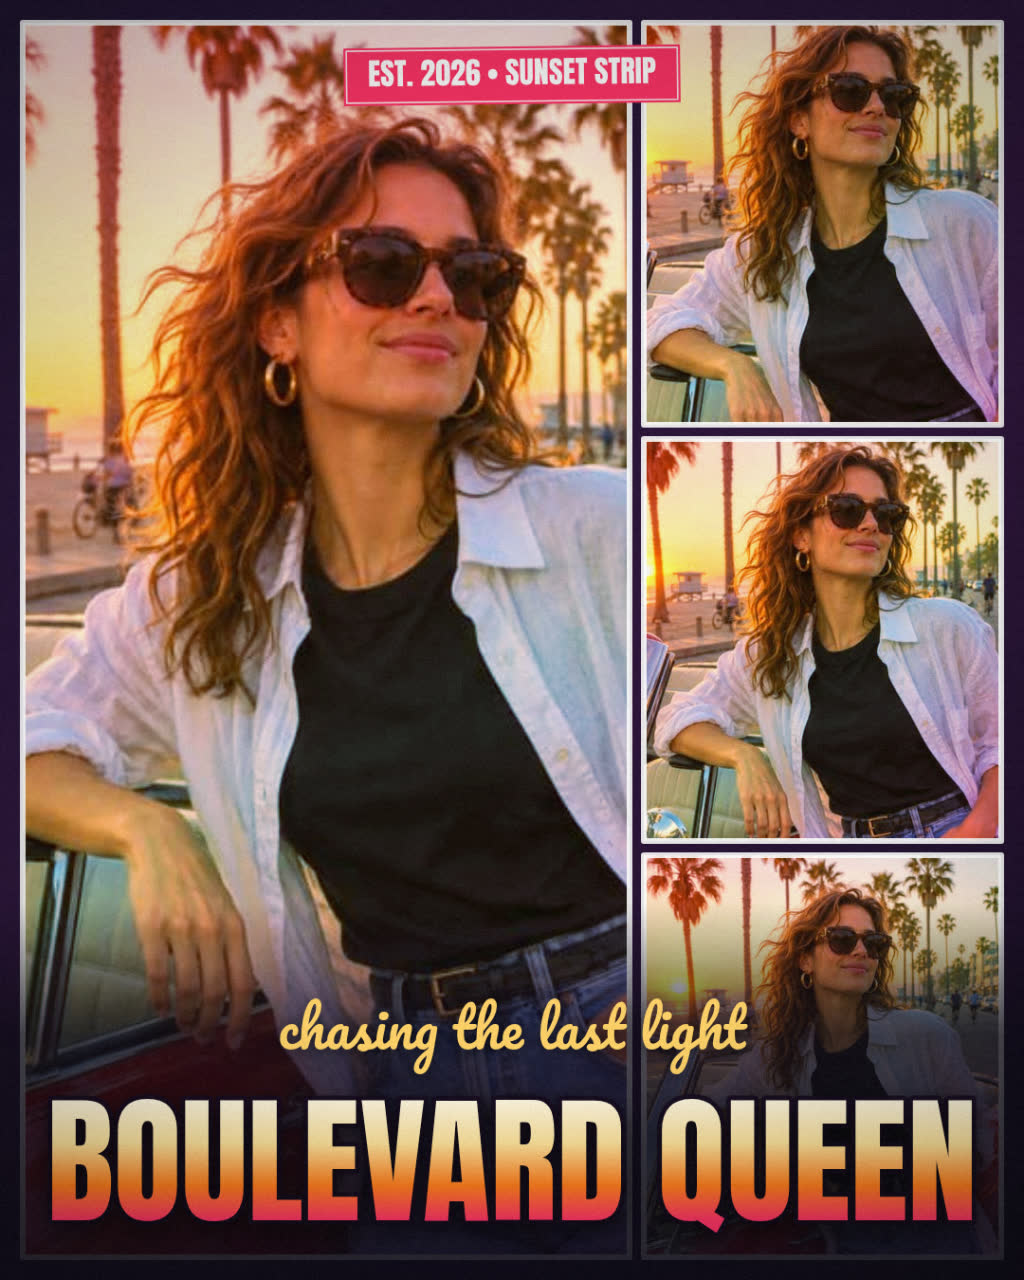
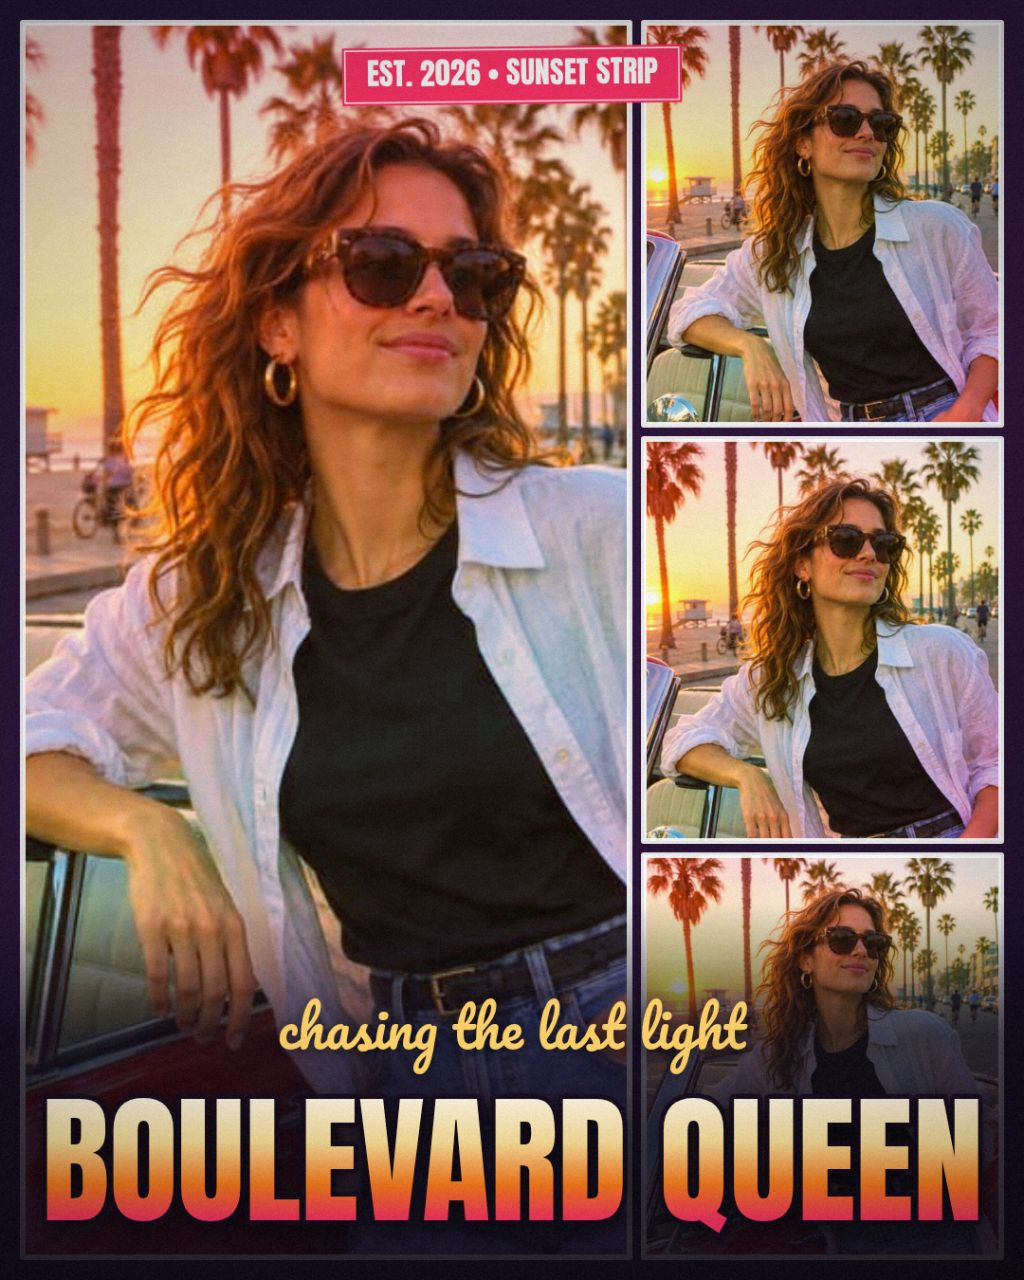
Round 2: re-download fonts in recorded session; fix 1-cover face framing

diff --git a/app/src/main.js b/app/src/main.js
@@ -181,13 +181,21 @@ async function loadSample(name) {
   const img = await loadImage(url);
   // Samples fill every empty panel so the cover looks complete at once;
   // panels the user already filled keep their own photo. Each panel gets a
-  // different default crop so the same photo frames differently per panel
-  // (wide panels favour the top of the photo, tall ones the middle).
+  // different default crop so the same photo frames differently per panel.
+  // The crops favour the face: in the pier sample the face sits in the top
+  // third of the photo (roughly y 10-280 of 720), so wide/short panels get
+  // a large positive oy to push the image down and keep eyes, smile and
+  // hat brim in frame instead of cropping to chin/neck. The bottom wide
+  // panel keeps zoom 1 (any less would leave uncovered strips at the
+  // sides) and oy 0.6, which centres the face's eyes in the bright band
+  // above the cover title; the title itself always covers the lower face
+  // there, by design. (A larger oy would suit a 16:9-wide canvas, but the
+  // square shot-1 render clamps it to the top of the photo instead.)
   const defaultCrops = [
-    { zoom: 1.1, ox: 0, oy: 0.25 },
-    { zoom: 1.4, ox: 0, oy: 0.2 },
-    { zoom: 1.25, ox: 0, oy: 0.15 },
-    { zoom: 1, ox: 0, oy: 0.5 },
+    { zoom: 1.1, ox: 0, oy: 0.45 },
+    { zoom: 1.15, ox: 0, oy: 0.72 },
+    { zoom: 1.2, ox: 0, oy: 0.75 },
+    { zoom: 1, ox: 0, oy: 0.6 },
   ];
   for (let i = 0; i < st.panels.length; i++) {
     if (!st.panels[i].img) {
